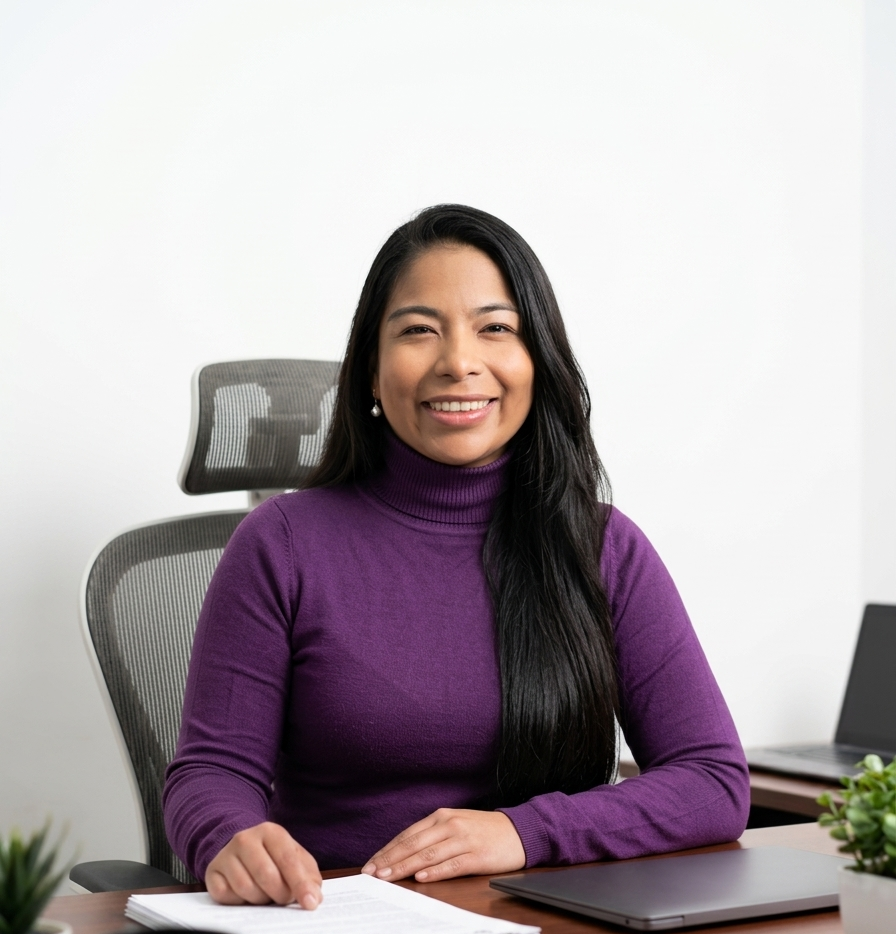
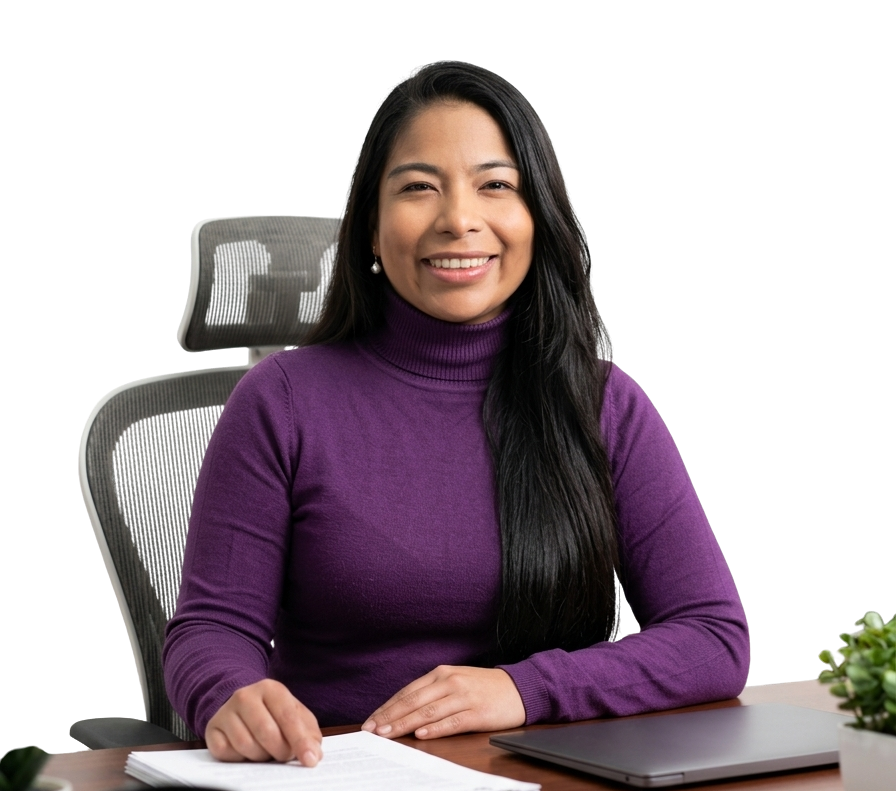
Implementar sistema de reservas, eliminar credenciales y actualizar documentacion

diff --git a/construccion/index.html b/construccion/index.html
@@ -9,6 +9,24 @@
   })(window,document,'script','dataLayer','GTM-TZ5JVQJ4');</script>
   <!-- End Google Tag Manager -->
 
+  <!-- Meta Pixel Code -->
+  <script>
+  !function(f,b,e,v,n,t,s)
+  {if(f.fbq)return;n=f.fbq=function(){n.callMethod?
+  n.callMethod.apply(n,arguments):n.queue.push(arguments)};
+  if(!f._fbq)f._fbq=n;n.push=n;n.loaded=!0;n.version='2.0';
+  n.queue=[];t=b.createElement(e);t.async=!0;
+  t.src=v;s=b.getElementsByTagName(e)[0];
+  s.parentNode.insertBefore(t,s)}(window, document,'script',
+  'https://connect.facebook.net/en_US/fbevents.js');
+  fbq('init', '1497851451855188');
+  fbq('track', 'PageView');
+  </script>
+  <noscript><img height="1" width="1" style="display:none"
+  src="https://www.facebook.com/tr?id=1497851451855188&ev=PageView&noscript=1"
+  /></noscript>
+  <!-- End Meta Pixel Code -->
+
   <meta charset="UTF-8">
   <meta name="viewport" content="width=device-width, initial-scale=1.0">
 
@@ -411,7 +429,7 @@ height="0" width="0" style="display:none;visibility:hidden"></iframe></noscript>
         <button class="btn-hero" onclick="document.querySelector('.overlap-cards-container').scrollIntoView({ behavior: 'smooth' })">Explorar Servicios</button>
       </div>
       <div class="hero-image">
-        <img src="Fotos/Fotos real/1.png" alt="MoreMKT - Publicidad" class="avatar-illustration">
+        <img src="Fotos/Publicidad.png" alt="MoreMKT - Publicidad" class="avatar-illustration">
       </div>
     </div>
 
@@ -488,7 +506,7 @@ height="0" width="0" style="display:none;visibility:hidden"></iframe></noscript>
         <button class="btn-hero" style="background:#10B981; color:#fff;" onclick="openModal('asesoria','Consultoría Estratégica', '$70.000 ARS')">Agendar Sesión (MP)</button>
       </div>
       <div class="hero-image">
-        <img src="Fotos/Fotos real/2.png" alt="MoreMKT - Asesoría" class="avatar-illustration">
+        <img src="Fotos/Asesorias.png" alt="MoreMKT - Asesoría" class="avatar-illustration">
       </div>
     </div>
 
@@ -529,7 +547,7 @@ height="0" width="0" style="display:none;visibility:hidden"></iframe></noscript>
         <button class="btn-hero" style="background:#F4BA3C; color:#1a1a1a;" id="packBtnTop">Armar Pack</button>
       </div>
       <div class="hero-image">
-        <img src="Fotos/Fotos real/3.png" alt="MoreMKT - Capacitación" class="avatar-illustration">
+        <img src="Fotos/Capacitaciones.png" alt="MoreMKT - Capacitación" class="avatar-illustration">
       </div>
     </div>
 
@@ -590,7 +608,7 @@ height="0" width="0" style="display:none;visibility:hidden"></iframe></noscript>
         <button class="btn-hero" style="background:#1D3557; color:#fff;" onclick="openSolucionesModal()">Solicitar Diagnóstico</button>
       </div>
       <div class="hero-image">
-        <img src="Fotos/Fotos real/4.png" alt="MoreMKT - Soluciones" class="avatar-illustration">
+        <img src="Fotos/Soluciones.png" alt="MoreMKT - Soluciones" class="avatar-illustration">
       </div>
     </div>
 

diff --git a/construccion/app.js b/construccion/app.js
@@ -103,6 +103,11 @@ function openModal(service, detail, price) {
     }
   });
 
+  // FB Pixel Event: InitiateCheckout
+  if (typeof fbq === 'function') {
+    fbq('track', 'InitiateCheckout');
+  }
+
   modalService = detail;
   modalPrice = price || '$70.000 ARS';
   document.getElementById('modal-service-label').textContent = detail;
@@ -434,6 +439,14 @@ document.addEventListener('DOMContentLoaded', () => {
                 }]
               }
             });
+
+            // FB Pixel Event: Purchase
+            if (typeof fbq === 'function') {
+              fbq('track', 'Purchase', {
+                value: 70000,
+                currency: 'ARS'
+              });
+            }
         } else if (status === 'pending') {
             title = 'Pago en Proceso';
             message = 'Tu pago está pendiente de acreditación. En cuanto se confirme, te enviaremos el mail con la confirmación de la cita.';
@@ -736,6 +749,14 @@ async function submitSolucionesForm(e) {
       phone_number: phone
     }
   });
+
+  // FB Pixel Event: Lead
+  if (typeof fbq === 'function') {
+    fbq('track', 'Lead', {
+      em: email, // Advanced matching requires specific keys
+      ph: phone
+    });
+  }
   
   const submitBtn = document.querySelector('#soluciones-form button[type="submit"]');
   if (submitBtn) {